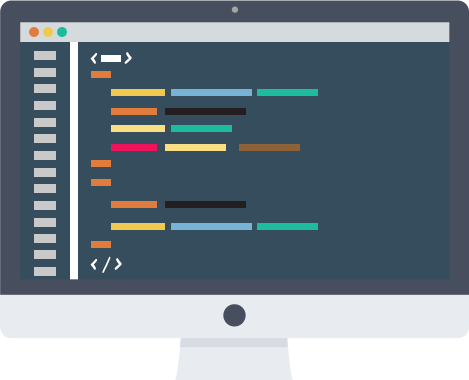
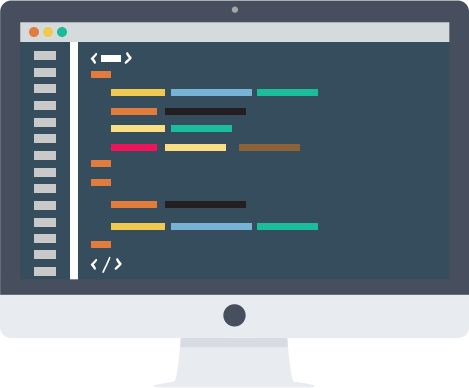
Animated iMac.

diff --git a/static/styles/home.less b/static/styles/home.less
@@ -247,69 +247,49 @@ body  {
       }
     }
 
-    .day-night {
-      .day-night-container  {
-        font-size: 80px;
-        font-family: "lavendersweet";
-      }
-
-      .day-container  {
-        transform: rotate(20deg);
-
-        .left-arrow {
-          position: absolute;
-          right: 0;
-          bottom: -20px;
-          transform: rotate(-25deg);
-        }
-
-        .day  {
-          position: absolute;
-          right: 55px;
-          top: 36px;
-          transform: rotate(-25deg);
-        }
-
-        .code {
-          transform: rotate(-20deg);
-          font-family: monospace;
-          font-size: 20px;
-          color: @aj-dark-gray-color;
-          text-align: right;
-          right: -180px;
-          top: 120px;
-          position: absolute;
-        }
-      }
-
+    .day-night  {
       .imac {
-        z-index: 1;
-        .img-responsive {
-          margin: auto;
-        }
-      }
-
-      .night-container  {
-        transform: rotate(-15deg);
-
-        .paintings {
-          left: -180px;
-          top: 102px;
-          position: absolute;
-          transform: rotate(180deg)
+        .imac-img {
+          opacity: 0;
+          display: block;
+          margin: 0 auto;
+          z-index: 0;          
         }
 
-        .right-arrow {
+        .day-img  {
+          display: none;
+
+          width: 470px;
+          height: 380px;
           position: absolute;
+          top: 0;
+          background: url('../images/imac-code.png') 0 0 no-repeat;
+          display: block;
+          z-index: 1;
+
+          background-position: 2px 2px;
+          margin-left: auto;
+          margin-right: auto;
           left: 0;
-          top: -20px;
-          transform: rotate(30deg);
+          right: 0;
         }
 
-        .night  {
+        .night-img  {
+          display: none;
+
+          width: 235px;
+          height: 380px;
           position: absolute;
-          left: 100px;
-          top: 35px;
+          top: 2px;
+          background: url('../images/imac-photoshop.png') 0 0 no-repeat;
+          display: block;
+          z-index: 1;
+
+          background-position: 100% 0px;
+          margin-left: auto;
+          margin-right: auto;
+          left: 235px;
+          right: 0;
         }
       }
     }
@@ -366,7 +346,7 @@ body  {
       .langs  {
         a {
           text-decoration: none;
-          
+
           .circle {
             color: @aj-text-color;
             display: inline-block;

diff --git a/templates/home.html b/templates/home.html
@@ -1,3 +1,4 @@
+
 {% extends 'layout.html' %}
 {% load staticfiles %}
 {% load twitterize %}
@@ -7,7 +8,7 @@
 {% block header_links %}
   <link rel="stylesheet" href="{% static "styles/home.min.css" %}">
   <link rel="stylesheet" href="{% static "styles/partials/font-mfizz.min.css" %}">
-  <link rel="stylesheet" href="{% static "styles/partials/font-awesome-4.4.0/css/font-awesome.min.css" %}">
+  <link rel="stylesheet" href="{% static "styles/partials/font-awesome.min.css" %}">
 {% endblock %}
 
 {% block content %}
@@ -54,26 +55,18 @@
         <img src="{{MEDIA_URL}}{{ country_image }}" />
       </div>
     </div>
-    <div class="day-night container-fluid">
-      <div class="day-night-container day-container col-md-4">
-        <img class="left-arrow" src="{% static "images/left-arrow.png" %}" />
-        <div class="day">Day</div>
-        <div class="code">
-          &lt;/body&gt;&lt;/html&gt; </br>
-          def render( **kwargs </br>
-          self, content </br>
-          &bnsp;return </br>
-          .header { </br>
-        </div>
-      </div>
-      <div class="imac col-md-4">
-        <img class="img-responsive" src="{% static "images/imac-photoshop.png" %}"/>
-      </div>
-      <div class="day-night-container night-container col-md-4">
-        <img class="right-arrow" src="{% static "images/right-arrow.png" %}" />
-        <div class="night">Night</div>
-        <div class="paintings">
-          <img src="{% static "images/paintings.png" %}" alt="" />
+
+    <div id="section" class="container-fluid">
+      <div class="day-night row">
+        <div class="col-md-12">
+          <div id="imac" class="imac">
+            <img id="imac-img" class="imac-img"
+                src="{% static "images/imac.png" %}">
+            <div id="day-img" class="day-img"></div>
+            <div id="night-img" class="night-img"></div>
+            <div id="day-bg" class="day-bg"></div>
+            <div id="night-bg" class="night-bg"></div>
+          </div>
         </div>
       </div>
     </div>
@@ -85,7 +78,7 @@
         <div class="title">A nerd.</div>
         <div class="content">
           I am a tireless seeker of knowledge, mining tool for math, and also,
-          coincidentally a graphic designer. I enjoy deleting bunch of codes as
+          coincidentally a graphic night. I enjoy deleting bunch of codes as
           much as I enjoy writing them.
         </div>
         <div class="note">

diff --git a/static/scripts/home.js b/static/scripts/home.js
@@ -1,26 +1,73 @@
 
-"use strict";
+'use strict';
+
+var body = $( 'body' );
+var nightImg = $( '#night-img' );
+var dayImg = $( '#day-img' );
+var imacImg = $( '#imac-img' );
+var section = $( '#section' );
+var navContainer = $( '#toggle' );
+var navOverlay = $( '#nav-overlay' );
+var scrollTop = $( '.scroll-top' );
+
+var xp = 0;
+var mouseX = 0;
+var relMouseX = 0;
+var windowCenterX = 0;
+var frameRate =  0;
+var timeInterval = Math.round( 1000 / frameRate );
+var loop = 0;
+
+// iMac Animation
+section.mouseenter(function(){
+
+  nightImg.css({opacity: 1});
+  dayImg.css({opacity: 1});
+  imacImg.css({opacity: 0});
+
+  section.mousemove(function(e){
+    mouseX = e.pageX;
+    windowCenterX = $(window).width() / 2;
+    relMouseX = mouseX - windowCenterX;
+  });
+
+  loop = setInterval(function(){
+    xp += (relMouseX - xp) / 15;
+
+    dayImg.css({width: 470 - (xp - 470) * 0.5, right: (xp - 470) * 0.5});
+    nightImg.css({width: 469 - (469 - xp) * 0.5, left: (469 - xp) * 0.5});
+
+  }, timeInterval );
+}).mouseleave(function(){
+		// reset the imac to initial state
+    imacImg.css({opacity: 1});
+    dayImg.css({opacity: 0});
+    nightImg.css({opacity: 0});
+	});
+
+
 
 // toggle nav menu
-$( "#toggle" ).click(function() {
-  $(this).toggleClass( "active" );
-  $( "#overlay" ).toggleClass( "open" );
+navContainer.click(function() {
+  $(this).toggleClass( 'active' );
+  navOverlay.toggleClass( 'open' );
 });
+
 
 // scroll top hover
-
-$(".scroll-top").hover(
+scrollTop.hover(
   function () {
-    $( ".fa-angle-up" ).toggleClass( "floating" );
+    $( '.fa-angle-up' ).toggleClass( 'floating' );
 });
 
+
 // scroll to top
-$("a[href^='#header']").on( "click", function(e) {
+$( 'a[href^="#header"]' ).on( 'click', function(e) {
 
    e.preventDefault();
    var hash = this.hash;
 
-   $( "body" ).animate({
+   body.animate({
        scrollTop: $(hash).offset().top
      }, 1000, function(){
    });

diff --git a/static/scripts/layout.js b/static/scripts/layout.js
@@ -1,5 +1,5 @@
 
-"use strict";
+'use strict';
 
 var lastScrollTop = 0,
   offset,
@@ -8,27 +8,25 @@ var lastScrollTop = 0,
 function scrollDirection() {
     offset = window.pageYOffset;
 
-    if (offset > lastScrollTop)
-        direction = "down";
-    else
-        direction = "up";
+    if (offset > lastScrollTop) {
+      direction = 'down';
+    }
+    else {
+      direction = 'up';
+    }
 
     lastScrollTop = offset;
     return  direction;
 }
 
-$(window).bind( "scroll", function() {
+$(window).bind( 'scroll', function() {
   var scroll = $(window).scrollTop();
 
   var dir = scrollDirection();
-  if( dir == "down" )  // hide
-    $( ".navbar" ).slideUp( 100, "easeOutSine" );
-  else {
-    if(scroll < 500)  // hide
-      $( ".navbar" ).slideUp( 100, "easeOutSine" );
-    else { // show
-      $( ".navbar" ).slideDown( 10, "easeOutSine" );
-      $( ".navbar" ).removeClass( "hide" );
-    }
+  if( scroll > 500 && dir === 'down' )  {
+    $( '.navbar' ).slideDown( 10, 'easeOutSine' );
+    $( '.navbar' ).removeClass( 'hide' );
+  } else {
+    $( '.navbar' ).slideUp( 100, 'easeOutSine' );
   }
 });

diff --git a/templates/layout.html b/templates/layout.html
@@ -1,3 +1,4 @@
+
 {% load staticfiles %}
 
 <!DOCTYPE html>
